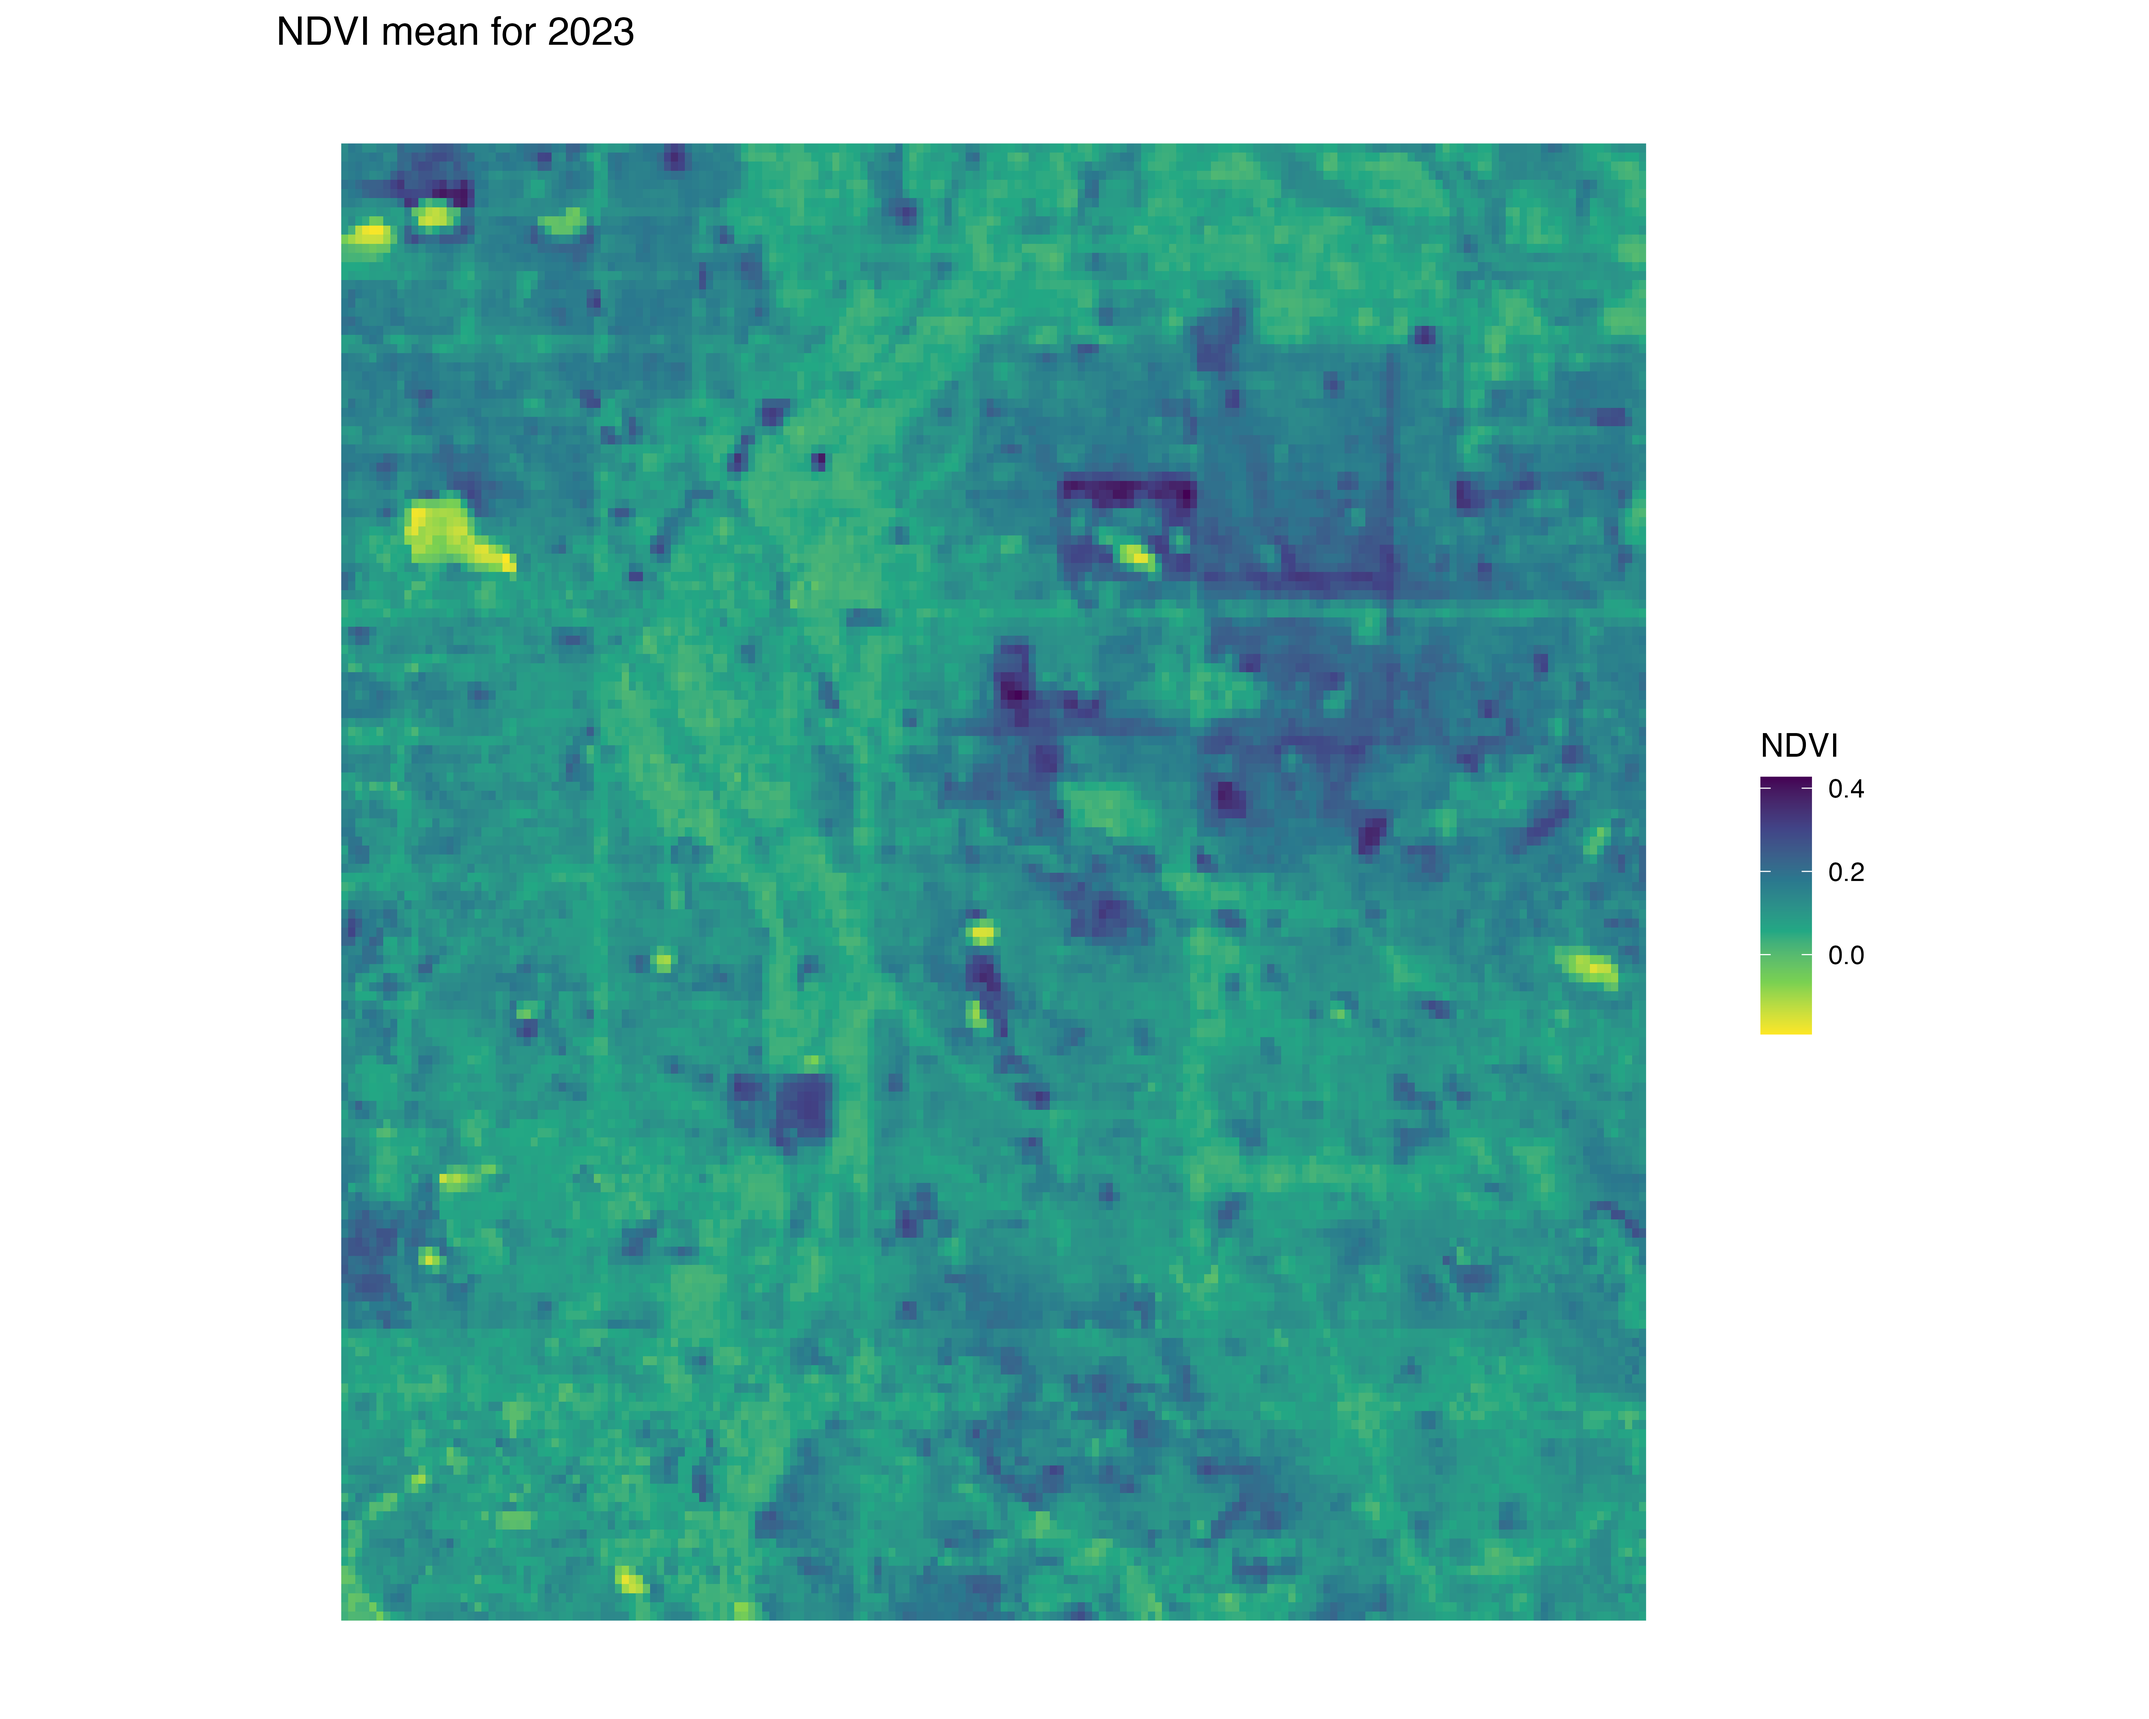
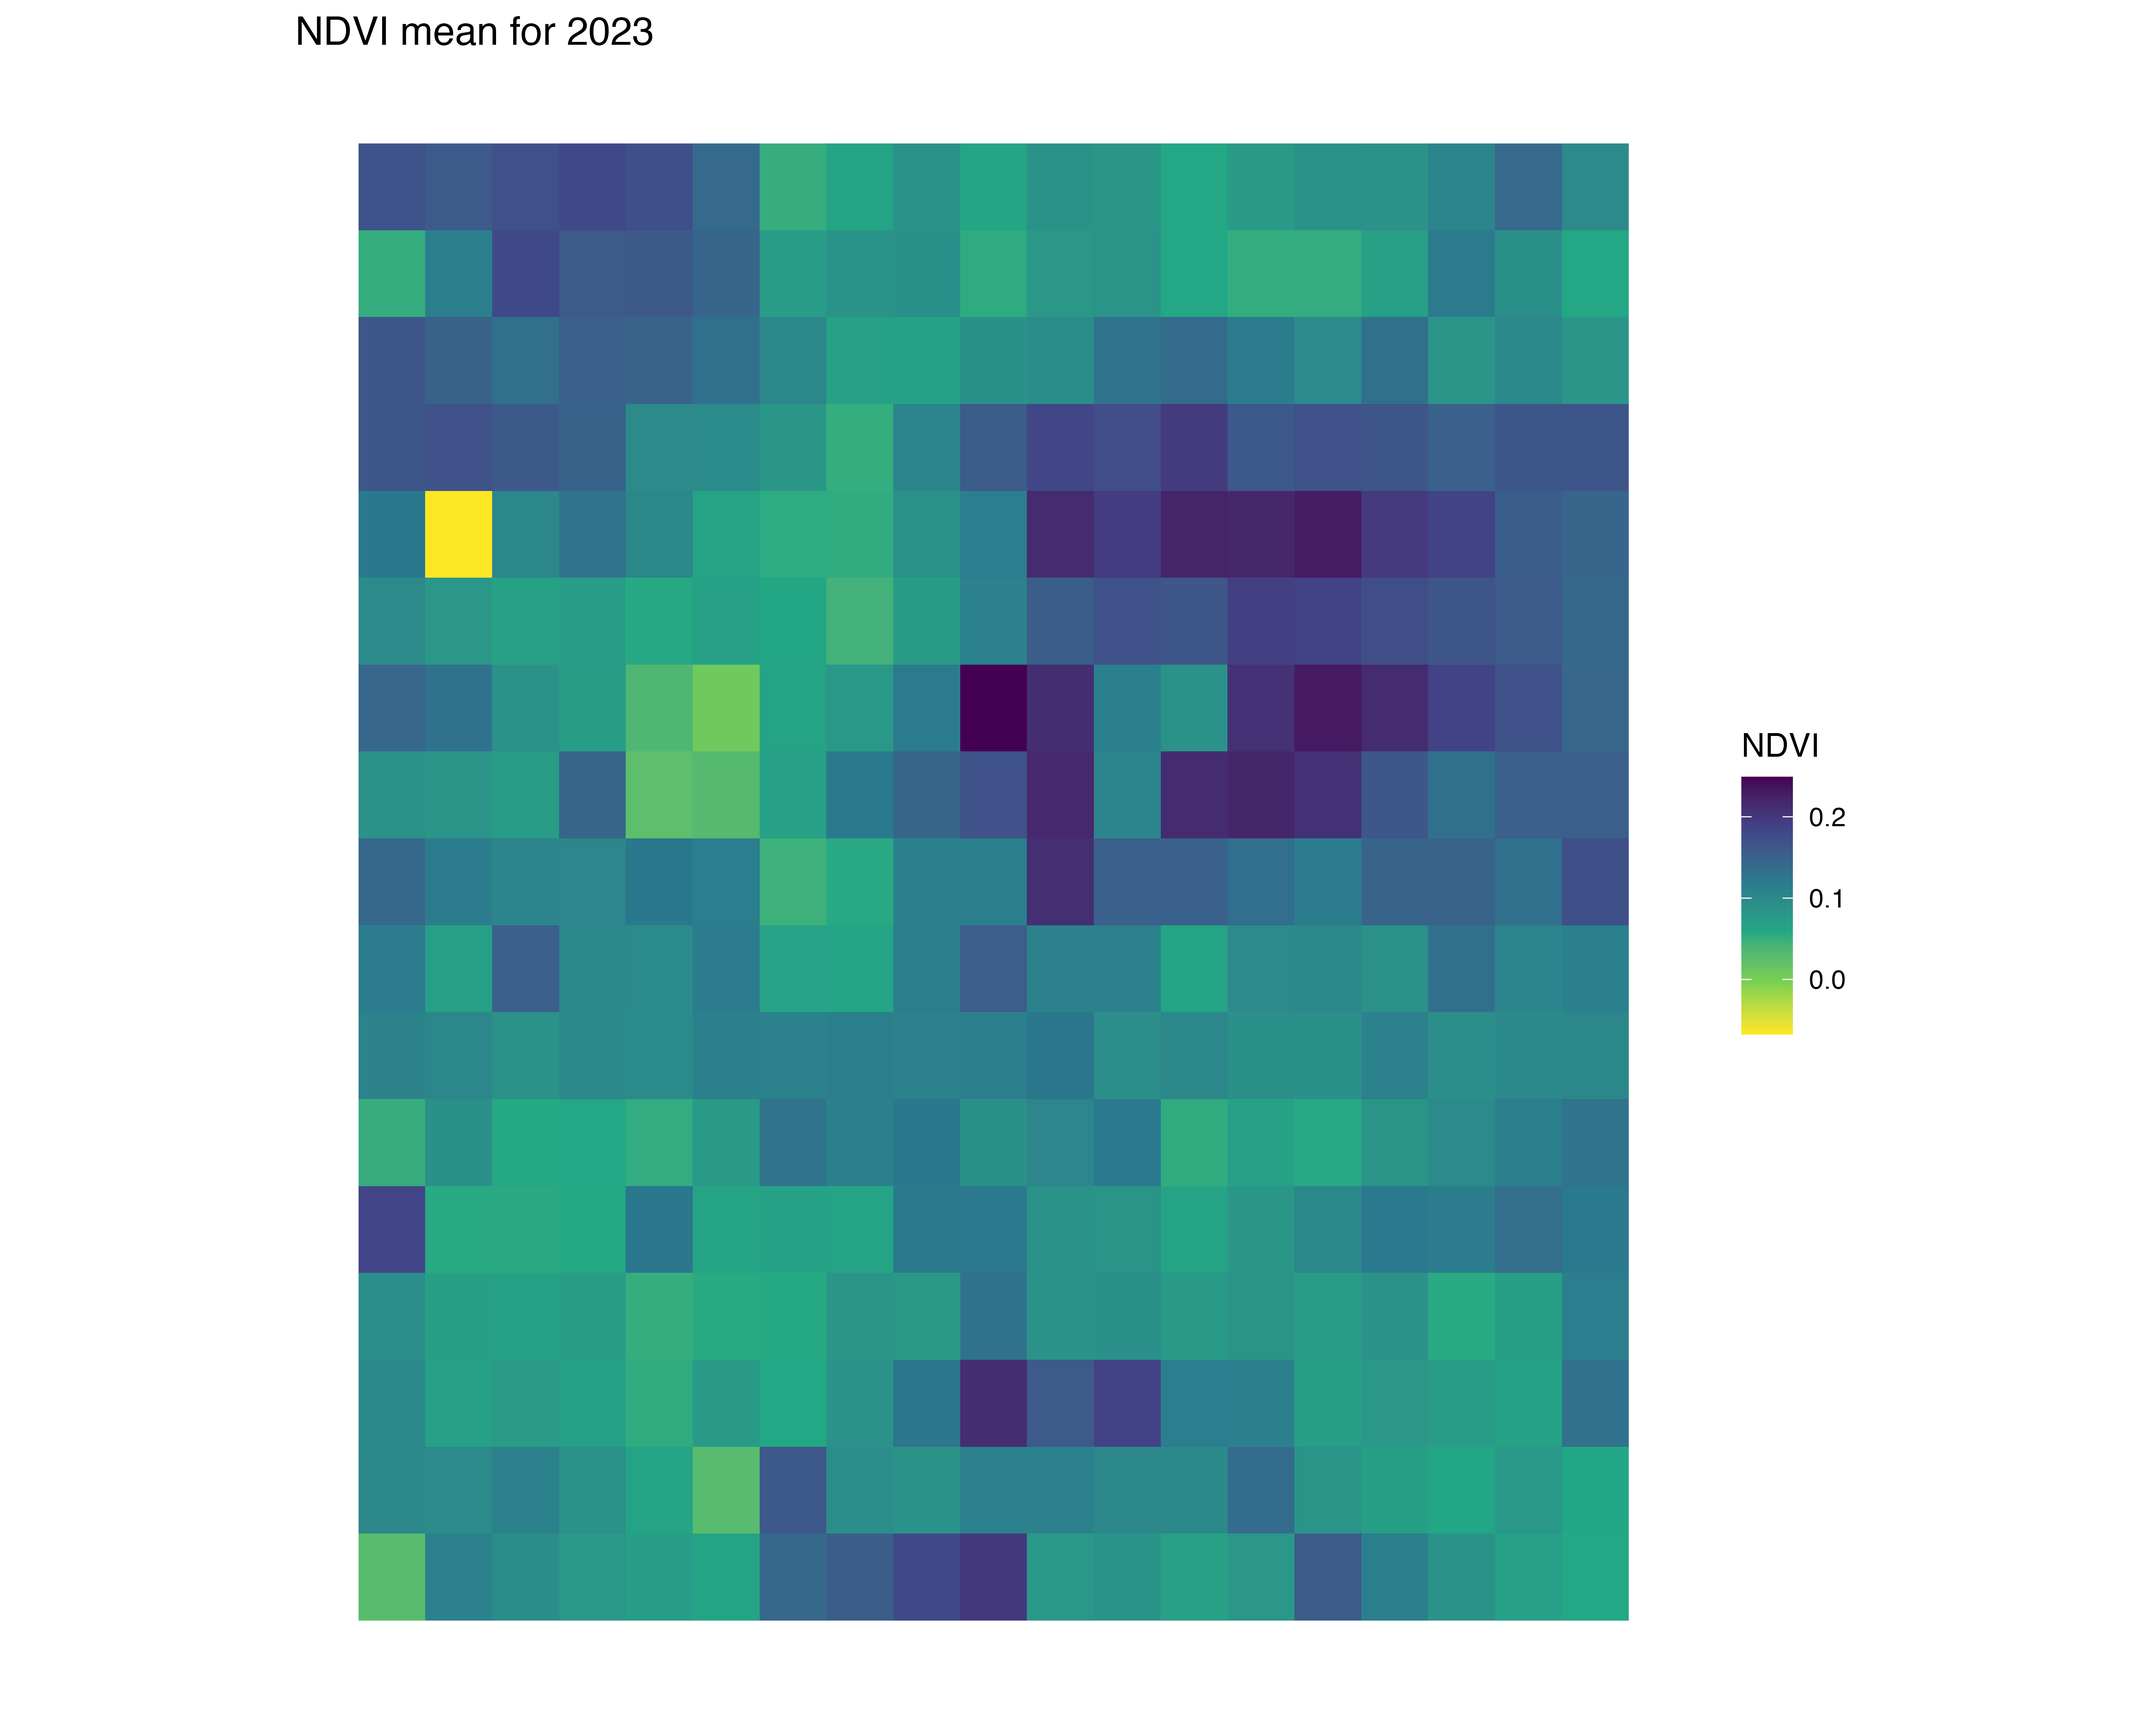
new render

diff --git a/docs/worksheets/worksheet_redlining.md b/docs/worksheets/worksheet_redlining.md
@@ -165,6 +165,8 @@ print(denver_redlining)
 
 ``` r
 library(osmextract)
+## Data (c) OpenStreetMap contributors, ODbL 1.0. https://www.openstreetmap.org/copyright.
+## Check the package website, https://docs.ropensci.org/osmextract/, for more details.
 library(sf)
 library(ggplot2)
 library(ggthemes)
@@ -502,7 +504,7 @@ print(processing_time)
 
 
 
-yearly_average_ndvi <- function(polygon_layer, output_file = "ndvi.png") {
+yearly_average_ndvi <- function(polygon_layer, output_file = "ndvi.png", dx = 0.01, dy = 0.01) {
   # Record start time
   start_time <- Sys.time()
 
@@ -528,7 +530,7 @@ yearly_average_ndvi <- function(polygon_layer, output_file = "ndvi.png") {
                  extent = list(t0 = "2023-01-01", t1 = "2023-12-31",
                                left = bbox["xmin"], right = bbox["xmax"], 
                                top = bbox["ymax"], bottom = bbox["ymin"]),
-                 dx = 0.001, dy = 0.001, dt = "P1Y", 
+                 dx = dx, dy = dy, dt = "P1Y", 
                  aggregation = "median", resampling = "bilinear")
 
   # Process NDVI
@@ -568,29 +570,156 @@ ndvi_plot <-   ggplot() +
 ```
 
 ``` r
-ndvi <- yearly_average_ndvi(denver_redlining)
-print(ndvi$plot)
+ndvi_background <- yearly_average_ndvi(denver_redlining,dx = 0.0001, dy = 0.0001)
+print(ndvi_background$plot)
 ```
 
 ![](worksheet_redlining_files/figure-gfm/unnamed-chunk-17-1.png)
 
 ``` r
-print(ndvi$processing_time)
+print(ndvi_background$processing_time)
 ```
 
-    Time difference of 3.842811 mins
+    Time difference of 15.31371 mins
 
 ``` r
-print(ndvi$raster)
+print(ndvi_background$raster)
 ```
 
     class       : SpatRaster 
-    dimensions  : 162, 186, 1  (nrow, ncol, nlyr)
-    resolution  : 0.001, 0.001  (x, y)
-    extent      : -105.0623, -104.8763, 39.62931, 39.79132  (xmin, xmax, ymin, ymax)
+    dimensions  : 1616, 1860, 1  (nrow, ncol, nlyr)
+    resolution  : 1e-04, 1e-04  (x, y)
+    extent      : -105.0623, -104.8763, 39.62951, 39.79112  (xmin, xmax, ymin, ymax)
     coord. ref. : lon/lat WGS 84 (EPSG:4326) 
-    source      : cube_e57075bf4e0d2023-01-01.tif 
+    source      : cube_13d0a395eb7192023-01-01.tif 
     name        : NDVI 
+
+``` r
+library(basemapR)
+
+create_mask_and_plot <- function(redlining_sf, background_raster = ndvi$raster, roads = NULL, rivers = NULL){
+  start_time <- Sys.time()  # Start timing
+  
+  # Validate and prepare the redlining data
+  redlining_sf <- redlining_sf %>%
+    filter(grade != "") %>%
+    st_make_valid()
+  
+  
+bbox <- st_bbox(redlining_sf)  # Get original bounding box
+
+
+expanded_bbox <- expand_bbox(bbox, 6000, 1000)  # 
+
+   
+expanded_bbox_poly <- st_as_sfc(expanded_bbox, crs = st_crs(redlining_sf)) %>%
+    st_make_valid()
+  
+  # Initialize an empty list to store masks
+  masks <- list()
+  
+  # Iterate over each grade to create masks
+  unique_grades <- unique(redlining_sf$grade)
+  for (grade in unique_grades) {
+    # Filter polygons by grade
+    grade_polygons <- redlining_sf[redlining_sf$grade == grade, ]
+    
+    # Create an "inverted" mask by subtracting these polygons from the background
+    mask <- st_difference(expanded_bbox_poly, st_union(grade_polygons))
+    
+    # Store the mask in the list with the grade as the name
+    masks[[grade]] <- st_sf(geometry = mask, grade = grade)
+  }
+  
+  # Combine all masks into a single sf object
+  mask_sf <- do.call(rbind, masks)
+  
+  # Normalize the grades so that C.2 becomes C, but correctly handle other grades
+  mask_sf$grade <- ifelse(mask_sf$grade == "C.2", "C", mask_sf$grade)
+
+  # Prepare the plot
+  plot <- ggplot() +
+    geom_spatraster(data = background_raster, aes(fill = NDVI)) +
+  scale_fill_viridis_c(name = "NDVI", option = "viridis", direction = -1) +
+   
+    geom_sf(data = mask_sf, aes(color = grade), fill = "white", size = 0.1, show.legend = FALSE) +
+    scale_color_manual(values = c("A" = "white", "B" = "white", "C" = "white", "D" = "white"), name = "Grade") +
+    facet_wrap(~ grade, nrow = 1) +
+     geom_sf(data = roads, alpha = 1, lwd = 0.1, color="white") +
+    geom_sf(data = rivers, color = "white", alpha = 0.5, lwd = 1.1) +
+    labs(title = "NDVI: Normalized Difference Vegetation Index") +
+    theme_minimal() +
+    coord_sf(xlim = c(bbox["xmin"], bbox["xmax"]), 
+           ylim = c(bbox["ymin"], bbox["ymax"]), 
+           expand = FALSE) + 
+    theme(plot.background = element_rect(fill = "white", color = NA),
+          panel.background = element_rect(fill = "white", color = NA),
+          legend.position = "bottom",
+          axis.text = element_blank(),
+          axis.title = element_blank(),
+          axis.ticks = element_blank(),
+          panel.grid.major = element_blank(),
+          panel.grid.minor = element_blank())
+
+  # Save the plot
+  ggsave("redlining_mask_ndvi.png", plot, width = 10, height = 4, dpi = 600)
+
+  end_time <- Sys.time()  # End timing
+  runtime <- end_time - start_time
+
+  # Return the plot and runtime
+  return(list(plot = plot, runtime = runtime, mask_sf = mask_sf))
+}
+```
+
+``` r
+ndvi_background_low <- yearly_average_ndvi(denver_redlining)
+print(ndvi_background_low$plot)
+```
+
+![](worksheet_redlining_files/figure-gfm/unnamed-chunk-19-1.png)
+
+``` r
+print(ndvi_background_low$processing_time)
+```
+
+    Time difference of 1.466374 mins
+
+``` r
+print(ndvi_background_low$raster)
+```
+
+    class       : SpatRaster 
+    dimensions  : 17, 19, 1  (nrow, ncol, nlyr)
+    resolution  : 0.01, 0.01  (x, y)
+    extent      : -105.0643, -104.8743, 39.62532, 39.79532  (xmin, xmax, ymin, ymax)
+    coord. ref. : lon/lat WGS 84 (EPSG:4326) 
+    source      : cube_13d0a16b8d6c12023-01-01.tif 
+    name        : NDVI 
+
+``` r
+ndvi <- create_mask_and_plot(denver_redlining, background_raster = ndvi_background_low$raster, roads = roads, rivers = rivers)
+ndvi$mask_sf
+```
+
+    Simple feature collection with 4 features and 1 field
+    Geometry type: GEOMETRY
+    Dimension:     XY
+    Bounding box:  xmin: -105.0865 ymin: 39.62053 xmax: -104.8546 ymax: 39.8001
+    Geodetic CRS:  WGS 84
+      grade                       geometry
+    A     A MULTIPOLYGON (((-105.0865 3...
+    B     B POLYGON ((-105.0865 39.6205...
+    C     C MULTIPOLYGON (((-105.0865 3...
+    D     D MULTIPOLYGON (((-105.0865 3...
+
+``` r
+ndvi$plot
+```
+
+![](worksheet_redlining_files/figure-gfm/unnamed-chunk-20-1.png)
+
+![](redlining_mask_ndvi.png)
 
 ``` r
 library(sf)
